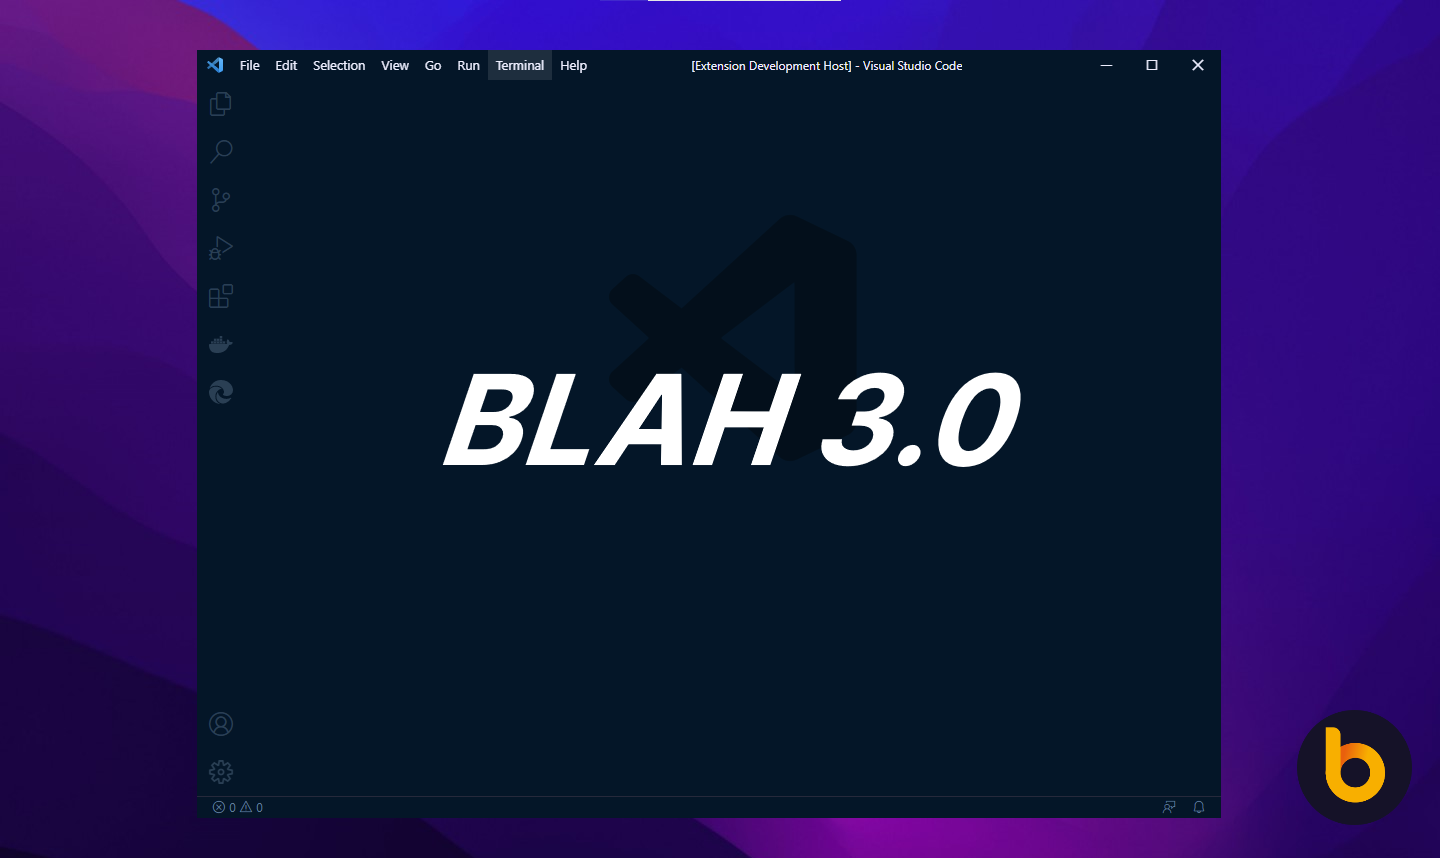
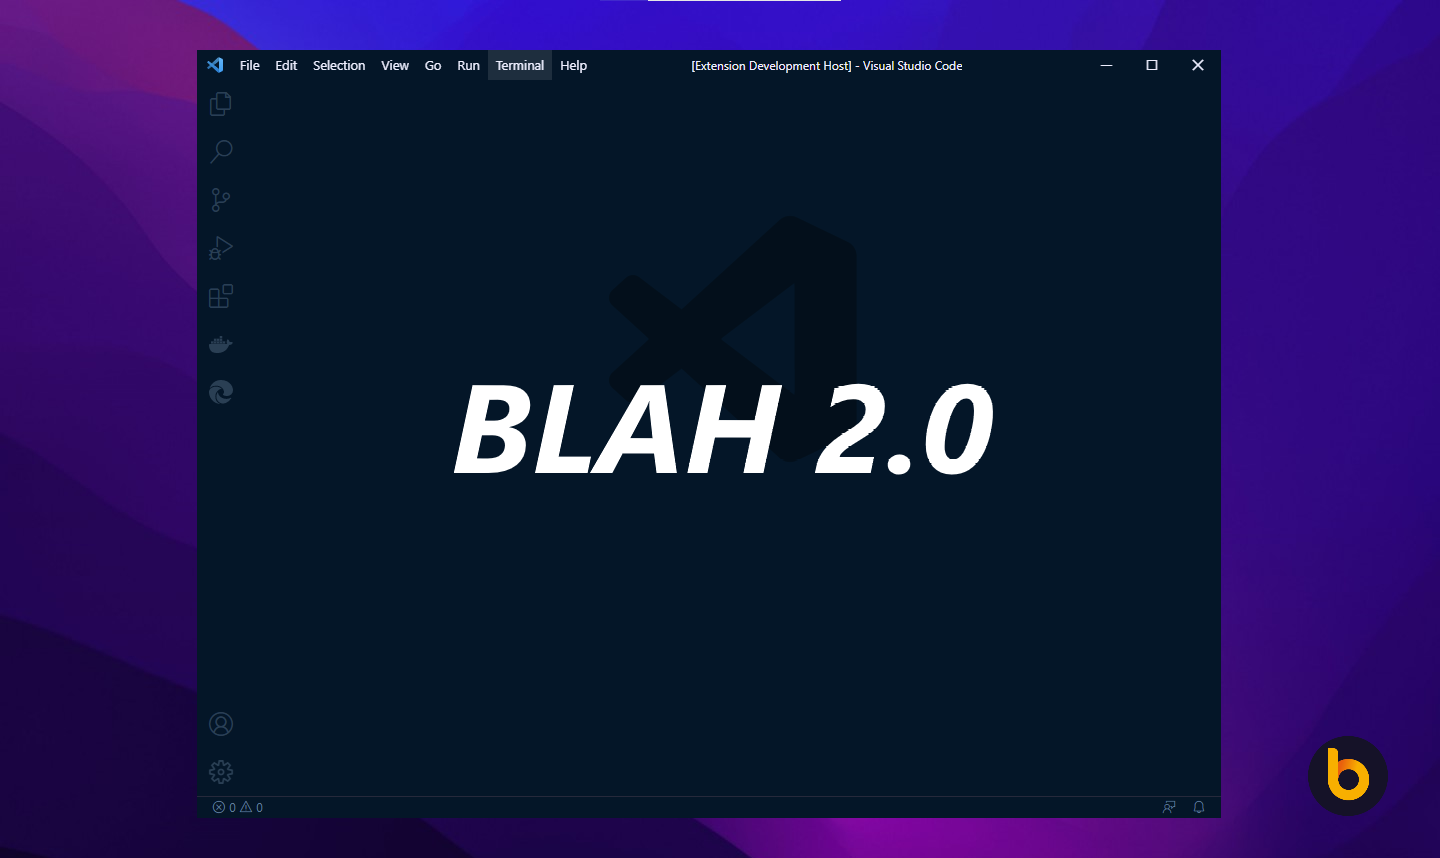
fix version

Changed region(s): [[0.3125, 0.4242, 0.7188, 0.5758], [0.875, 0.8182, 1.0, 0.9697]]

diff --git a/README.md b/README.md
@@ -1,4 +1,4 @@
-# Blah 3.0 🐑
+# Blah 2.0 🐑
 
 ![main](images/main.png?raw=true)
 
